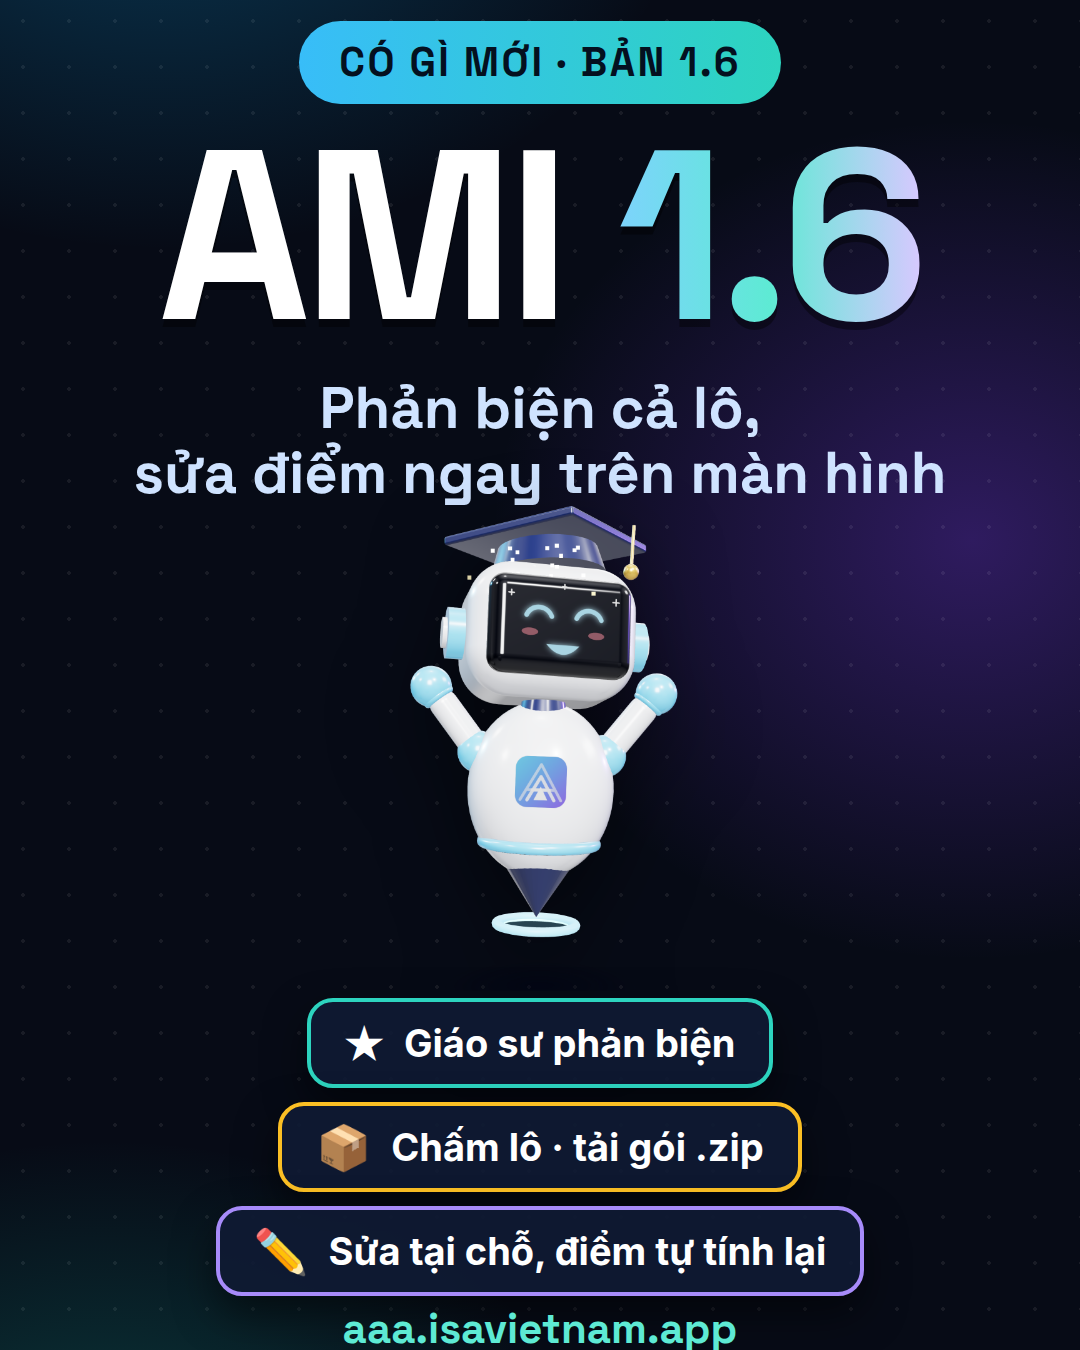
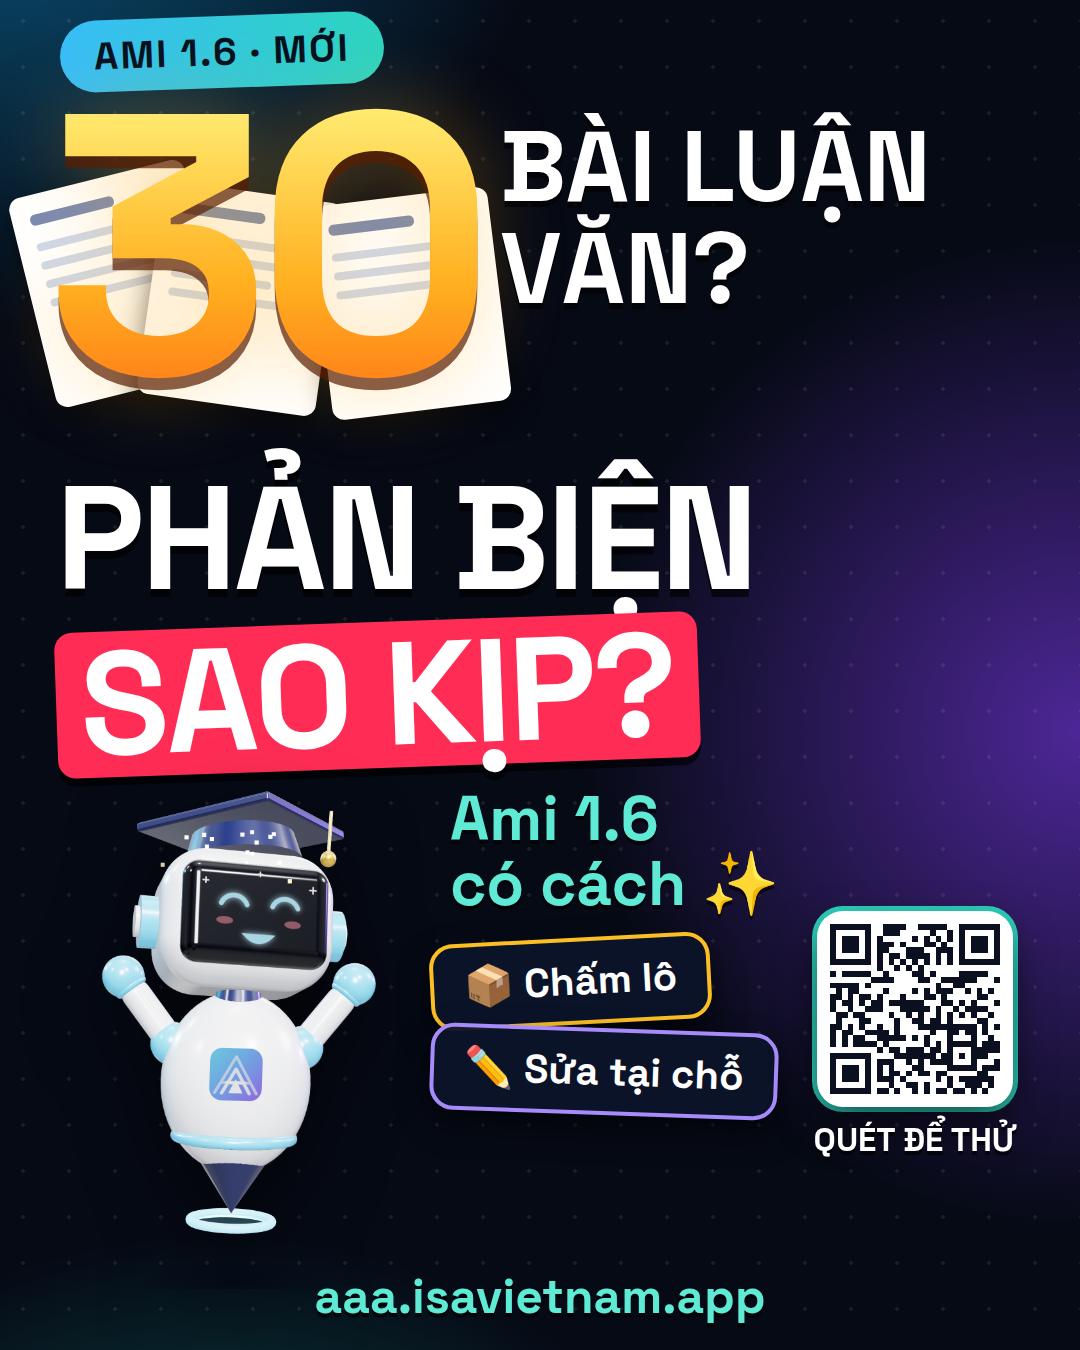
Ảnh bìa mới: câu hook, mã QR, bố cục nổi bật hơn (YouTube 16:9, dọc 9:16 và 4:5)
Claude-Session: https://claude.ai/code/session_01K8vE6rjk499ruXbZoEkPC7

diff --git a/marketing/video/yt/thumb.html b/marketing/video/yt/thumb.html
@@ -1,23 +1,36 @@
-<!doctype html><html lang="vi"><head><meta charset="utf-8"><title>Thumbnail YouTube — Ami 1.6</title>
+<!doctype html><html lang="vi"><head><meta charset="utf-8"><title>Ảnh đại diện YouTube — Ami 1.6</title>
 <link rel="stylesheet" href="assets/fonts.css">
 <style>
 *{box-sizing:border-box;margin:0;padding:0}
 html,body{width:1280px;height:720px;overflow:hidden;background:#070b16}
-#c{position:relative;width:1280px;height:720px;overflow:hidden;font-family:'Inter',sans-serif;color:#fff;background:radial-gradient(700px 520px at 8% 0%,rgba(14,165,233,.42),transparent 60%),radial-gradient(700px 600px at 100% 60%,rgba(124,58,237,.5),transparent 60%),radial-gradient(600px 400px at 30% 100%,rgba(20,184,166,.35),transparent 60%),#070b16}
-.dots{position:absolute;inset:0;background-image:radial-gradient(rgba(255,255,255,.07) 2px,transparent 2px);background-size:40px 40px}
+#c{position:relative;width:1280px;height:720px;overflow:hidden;font-family:'Inter',sans-serif;color:#fff;background:radial-gradient(760px 560px at 0% 0%,rgba(14,165,233,.5),transparent 62%),radial-gradient(700px 640px at 100% 55%,rgba(124,58,237,.62),transparent 62%),radial-gradient(640px 420px at 35% 105%,rgba(20,184,166,.42),transparent 60%),#060a15}
+.dots{position:absolute;inset:0;background-image:radial-gradient(rgba(255,255,255,.08) 2px,transparent 2px);background-size:38px 38px}
 .abs{position:absolute}
 .hd{font-family:'Space Grotesk','Inter',sans-serif;font-weight:700}
-.grad{background:linear-gradient(90deg,#7dd3fc,#5eead4 55%,#d8c8ff);-webkit-background-clip:text;background-clip:text;color:transparent}
-.card{background:#fff;border-radius:26px;overflow:hidden;box-shadow:0 30px 60px rgba(0,0,0,.55),0 0 0 3px rgba(255,255,255,.2)}
-.card img{display:block}
-.chip{display:inline-flex;align-items:center;gap:12px;font-weight:800;font-size:34px;padding:12px 26px;border-radius:22px;background:rgba(15,26,51,.94);border:3px solid var(--c);color:#fff;white-space:nowrap;box-shadow:0 12px 28px rgba(0,0,0,.5)}
+.stk{position:absolute;width:150px;height:196px;background:#fff;border-radius:10px;box-shadow:0 10px 22px rgba(0,0,0,.55);padding:16px 14px}
+.stk i{display:block;height:6px;border-radius:4px;background:#cfd8ea;margin-bottom:9px}
+.stk i.h{height:9px;width:60%;background:#7a8ab0;margin-bottom:14px}
+.chip{display:inline-flex;align-items:center;gap:10px;font-weight:800;font-size:30px;padding:10px 22px;border-radius:20px;background:rgba(12,20,42,.95);border:3px solid var(--c);color:#fff;white-space:nowrap;box-shadow:0 12px 26px rgba(0,0,0,.55)}
 </style></head><body><div id="c"><div class="dots"></div>
-<div class="abs hd" style="left:60px;top:48px;background:#fbbf24;color:#1b1204;font-size:36px;padding:10px 28px;border-radius:99px;letter-spacing:.06em;transform:rotate(-3deg)">MỚI · BẢN 1.6</div>
-<div class="abs hd" style="left:52px;top:128px;font-size:190px;line-height:1;letter-spacing:-.03em;filter:drop-shadow(0 8px 0 rgba(0,0,0,.4))">AMI <span class="grad">1.6</span></div>
-<div class="abs hd" style="left:60px;top:352px;font-size:76px;line-height:1.08;color:#fff;filter:drop-shadow(0 4px 0 rgba(0,0,0,.4))">Phản biện <span class="grad">cả lô</span>,<br>sửa điểm <span class="grad">ngay</span><br>trên màn hình</div>
-<div class="abs" style="left:60px;top:628px"><div class="chip" style="--c:#2dd4bf">★ Giáo sư phản biện</div></div>
-<div class="abs card" style="left:760px;top:140px;width:480px;transform:rotate(4deg)"><img src="assets/p6b-batch-done.webp" style="width:530px;margin:-86px 0 0 -26px"></div>
-<div class="abs" style="left:1010px;top:60px;transform:rotate(8deg)"><div class="chip hd" style="--c:#22c55e;font-size:46px;color:#22c55e">78/100 ✓</div></div>
-<img class="abs" src="assets/ami-celebrate.png" style="left:790px;top:310px;width:320px;filter:drop-shadow(0 24px 30px rgba(0,0,0,.5))">
-<div class="abs" style="left:1000px;top:560px;transform:rotate(-4deg)"><div class="chip" style="--c:#fbbf24">📦 .zip</div></div>
+<!-- chồng bài luận văn -->
+<div class="stk" style="left:20px;top:170px;transform:rotate(-14deg)"><i class="h"></i><i></i><i></i><i style="width:80%"></i><i></i><i style="width:60%"></i></div>
+<div class="stk" style="left:130px;top:190px;transform:rotate(9deg)"><i class="h"></i><i></i><i></i><i style="width:75%"></i><i></i></div>
+<div class="stk" style="left:380px;top:215px;transform:rotate(-8deg)"><i class="h"></i><i></i><i></i><i style="width:70%"></i><i></i><i style="width:55%"></i></div>
+<div class="stk" style="left:520px;top:200px;transform:rotate(12deg)"><i class="h"></i><i></i><i></i><i style="width:85%"></i></div>
+<div class="stk" style="left:260px;top:225px;transform:rotate(3deg)"><i class="h"></i><i></i><i></i><i style="width:65%"></i><i></i><i style="width:80%"></i></div>
+<!-- hook -->
+<div class="abs hd" style="left:46px;top:34px;font-size:300px;line-height:.86;letter-spacing:-.04em;background:linear-gradient(180deg,#fff27a,#ffb020 62%,#ff7a18);-webkit-background-clip:text;background-clip:text;color:transparent;filter:drop-shadow(0 10px 0 rgba(90,30,0,.7)) drop-shadow(0 0 34px rgba(255,176,32,.35))">30</div>
+<div class="abs hd" style="left:440px;top:70px;font-size:68px;line-height:1.02;color:#fff;filter:drop-shadow(0 5px 0 rgba(0,0,0,.6))">BÀI LUẬN<br>VĂN?</div>
+<div class="abs hd" style="left:46px;top:420px;font-size:96px;line-height:1.0;letter-spacing:-.02em;color:#fff;filter:drop-shadow(0 6px 0 rgba(0,0,0,.65))">PHẢN BIỆN<br><span style="background:#ff2d55;padding:0 18px;border-radius:14px;display:inline-block;margin-top:8px;transform:rotate(-2deg)">SAO KỊP?</span></div>
+<!-- đáp án -->
+<div class="abs hd" style="left:50px;top:652px;font-size:40px;color:#5eead4;filter:drop-shadow(0 3px 0 rgba(0,0,0,.6))">Ami 1.6 có cách ✨</div>
+<img class="abs" src="assets/ami-celebrate.png" style="left:800px;top:90px;width:360px;filter:drop-shadow(0 26px 34px rgba(0,0,0,.6))">
+<div class="abs" style="left:1000px;top:60px;transform:rotate(7deg)"><div class="chip hd" style="--c:#fbbf24">📦 Chấm lô</div></div>
+<div class="abs" style="left:690px;top:400px;transform:rotate(-6deg)"><div class="chip hd" style="--c:#a78bfa">✏ Sửa tại chỗ</div></div>
+<div class="abs" style="left:700px;top:520px;transform:rotate(-3deg)"><div class="chip hd" style="--c:#2dd4bf">★ Giáo sư phản biện</div></div>
+<!-- QR -->
+<div class="abs" style="left:1030px;top:420px;width:226px;text-align:center">
+ <div style="background:#fff;border-radius:22px;padding:11px;width:190px;height:190px;margin:0 auto;box-shadow:0 18px 40px rgba(0,0,0,.6),0 0 0 4px #2dd4bf"><img src="assets/qr-app.svg" style="width:100%;height:100%;display:block"></div>
+ <div class="hd" style="font-size:26px;margin-top:10px;color:#fff;filter:drop-shadow(0 3px 0 rgba(0,0,0,.7))">QUÉT ĐỂ THỬ</div>
+</div>
 </div></body></html>

diff --git a/marketing/video/moi60/cover.html b/marketing/video/moi60/cover.html
@@ -1,25 +1,31 @@
-<!doctype html><html lang="vi"><head><meta charset="utf-8"><title>Ảnh bìa clip Ami 1.6</title>
+<!doctype html><html lang="vi"><head><meta charset="utf-8"><title>Ảnh bìa clip dọc Ami 1.6</title>
 <link rel="stylesheet" href="assets/fonts.css">
 <style>
 *{box-sizing:border-box;margin:0;padding:0}
-html,body{width:1080px;height:1920px;overflow:hidden;background:#070b16}
-#c{position:relative;width:1080px;height:1920px;overflow:hidden;font-family:'Inter',sans-serif;color:#eef2fb;background:radial-gradient(900px 700px at 15% 8%,rgba(14,165,233,.30),transparent 60%),radial-gradient(800px 700px at 90% 45%,rgba(124,58,237,.34),transparent 60%),radial-gradient(800px 600px at 10% 95%,rgba(20,184,166,.28),transparent 60%),#070b16}
-.dots{position:absolute;inset:0;background-image:radial-gradient(rgba(255,255,255,.07) 2px,transparent 2px);background-size:46px 46px}
-.hd{font-family:'Space Grotesk','Inter',sans-serif;font-weight:700}
+html,body{width:1080px;height:1920px;overflow:hidden;background:#060a15}
+#c{position:relative;width:1080px;height:1920px;overflow:hidden;font-family:'Inter',sans-serif;color:#fff;background:radial-gradient(900px 800px at 0% 8%,rgba(14,165,233,.5),transparent 62%),radial-gradient(800px 800px at 100% 55%,rgba(124,58,237,.6),transparent 62%),radial-gradient(800px 600px at 20% 100%,rgba(20,184,166,.4),transparent 60%),#060a15}
+.dots{position:absolute;inset:0;background-image:radial-gradient(rgba(255,255,255,.08) 2px,transparent 2px);background-size:46px 46px}
 .abs{position:absolute}
-.pill{display:inline-flex;align-items:center;gap:12px;font-weight:800;border-radius:99px;white-space:nowrap}
-.grad{background:linear-gradient(90deg,#7dd3fc,#5eead4 50%,#d8c8ff);-webkit-background-clip:text;background-clip:text;color:transparent}
-.chip{display:flex;align-items:center;gap:20px;font-weight:800;font-size:38px;padding:14px 34px;border-radius:26px;background:rgba(15,26,51,.92);border:4px solid var(--c);color:#fff;box-shadow:0 18px 40px rgba(0,0,0,.5);white-space:nowrap}
-.chip i{font-style:normal;font-size:44px}
+.hd{font-family:'Space Grotesk','Inter',sans-serif;font-weight:700}
+.stk{position:absolute;width:180px;height:215px;background:#fff;border-radius:12px;box-shadow:0 12px 26px rgba(0,0,0,.55);padding:20px 18px}
+.stk i{display:block;height:8px;border-radius:5px;background:#cfd8ea;margin-bottom:11px}
+.stk i.h{height:11px;width:60%;background:#7a8ab0;margin-bottom:18px}
+.chip{display:inline-flex;align-items:center;gap:12px;font-weight:800;font-size:40px;padding:14px 30px;border-radius:24px;background:rgba(12,20,42,.95);border:4px solid var(--c);color:#fff;white-space:nowrap;box-shadow:0 14px 30px rgba(0,0,0,.55)}
 </style></head><body><div id="c"><div class="dots"></div>
-<div class="abs" style="left:0;top:0;width:1080px;text-align:center;top:345px"><div class="pill hd" style="background:linear-gradient(90deg,#38bdf8,#2dd4bf);color:#04101f;font-size:40px;padding:16px 40px;letter-spacing:.06em">CÓ GÌ MỚI · BẢN 1.6</div></div>
-<div class="abs hd" style="left:0;top:440px;width:1080px;text-align:center;font-size:240px;line-height:1;letter-spacing:-.03em;color:#fff;filter:drop-shadow(0 8px 0 rgba(0,0,0,.4))">AMI <span class="grad">1.6</span></div>
-<div class="abs hd" style="left:60px;top:700px;width:960px;text-align:center;font-size:58px;line-height:1.12;color:#cfe3ff">Phản biện cả lô,<br>sửa điểm ngay trên màn hình</div>
-<img class="abs" src="assets/ami-celebrate.png" style="left:340px;top:815px;width:400px;filter:drop-shadow(0 30px 40px rgba(0,0,0,.5))">
-<div class="abs" style="left:60px;top:1322px;width:960px;display:flex;flex-direction:column;gap:14px;align-items:center">
- <div class="chip" style="--c:#2dd4bf"><i>★</i>Giáo sư phản biện</div>
- <div class="chip" style="--c:#fbbf24"><i>📦</i>Chấm lô · tải gói .zip</div>
- <div class="chip" style="--c:#a78bfa"><i>✏</i>Sửa tại chỗ, điểm tự tính lại</div>
+<div class="abs hd" style="left:60px;top:340px;background:linear-gradient(90deg,#38bdf8,#2dd4bf);color:#04101f;font-size:38px;padding:12px 34px;border-radius:99px;letter-spacing:.06em;transform:rotate(-2deg)">AMI 1.6 · MỚI</div>
+<div class="stk" style="left:30px;top:500px;transform:rotate(-14deg)"><i class="h"></i><i></i><i></i><i style="width:80%"></i><i></i></div>
+<div class="stk" style="left:150px;top:515px;transform:rotate(8deg)"><i class="h"></i><i></i><i></i><i style="width:70%"></i><i></i></div>
+<div class="stk" style="left:320px;top:520px;transform:rotate(-7deg)"><i class="h"></i><i></i><i></i><i style="width:75%"></i></div>
+<div class="abs hd" style="left:46px;top:410px;font-size:370px;line-height:.86;letter-spacing:-.04em;background:linear-gradient(180deg,#fff27a,#ffb020 62%,#ff7a18);-webkit-background-clip:text;background-clip:text;color:transparent;filter:drop-shadow(0 12px 0 rgba(90,30,0,.7)) drop-shadow(0 0 40px rgba(255,176,32,.35))">30</div>
+<div class="abs hd" style="left:500px;top:440px;font-size:100px;line-height:1.02;filter:drop-shadow(0 6px 0 rgba(0,0,0,.6))">BÀI LUẬN<br>VĂN?</div>
+<div class="abs hd" style="left:56px;top:790px;font-size:146px;line-height:1;letter-spacing:-.02em;filter:drop-shadow(0 8px 0 rgba(0,0,0,.65))">PHẢN BIỆN<br><span style="background:#ff2d55;padding:0 24px;border-radius:18px;display:inline-block;margin-top:10px;transform:rotate(-2deg)">SAO KỊP?</span></div>
+<img class="abs" src="assets/ami-celebrate.png" style="left:30px;top:1100px;width:410px;filter:drop-shadow(0 28px 38px rgba(0,0,0,.6))">
+<div class="abs hd" style="left:450px;top:1110px;font-size:62px;line-height:1.05;color:#5eead4;filter:drop-shadow(0 4px 0 rgba(0,0,0,.65))">Ami 1.6<br>có cách ✨</div>
+<div class="abs" style="left:430px;top:1262px;transform:rotate(-3deg)"><div class="chip hd" style="--c:#fbbf24">📦 Chấm lô</div></div>
+<div class="abs" style="left:430px;top:1352px;transform:rotate(2deg)"><div class="chip hd" style="--c:#a78bfa">✏ Sửa tại chỗ</div></div>
+<div class="abs" style="left:800px;top:1235px;width:230px;text-align:center">
+ <div style="background:#fff;border-radius:26px;padding:13px;width:196px;height:196px;margin:0 auto;box-shadow:0 18px 40px rgba(0,0,0,.6),0 0 0 5px #2dd4bf"><img src="assets/qr-app.svg" style="width:100%;height:100%;display:block"></div>
+ <div class="hd" style="font-size:33px;margin-top:12px;white-space:nowrap;filter:drop-shadow(0 4px 0 rgba(0,0,0,.65))">QUÉT ĐỂ THỬ</div>
 </div>
-<div class="abs hd" style="left:0;top:1626px;width:1080px;text-align:center;font-size:42px;color:#5eead4">aaa.isavietnam.app</div>
+<div class="abs hd" style="left:0;top:1590px;width:1080px;text-align:center;font-size:48px;color:#5eead4;filter:drop-shadow(0 4px 0 rgba(0,0,0,.65))">aaa.isavietnam.app</div>
 </div></body></html>
